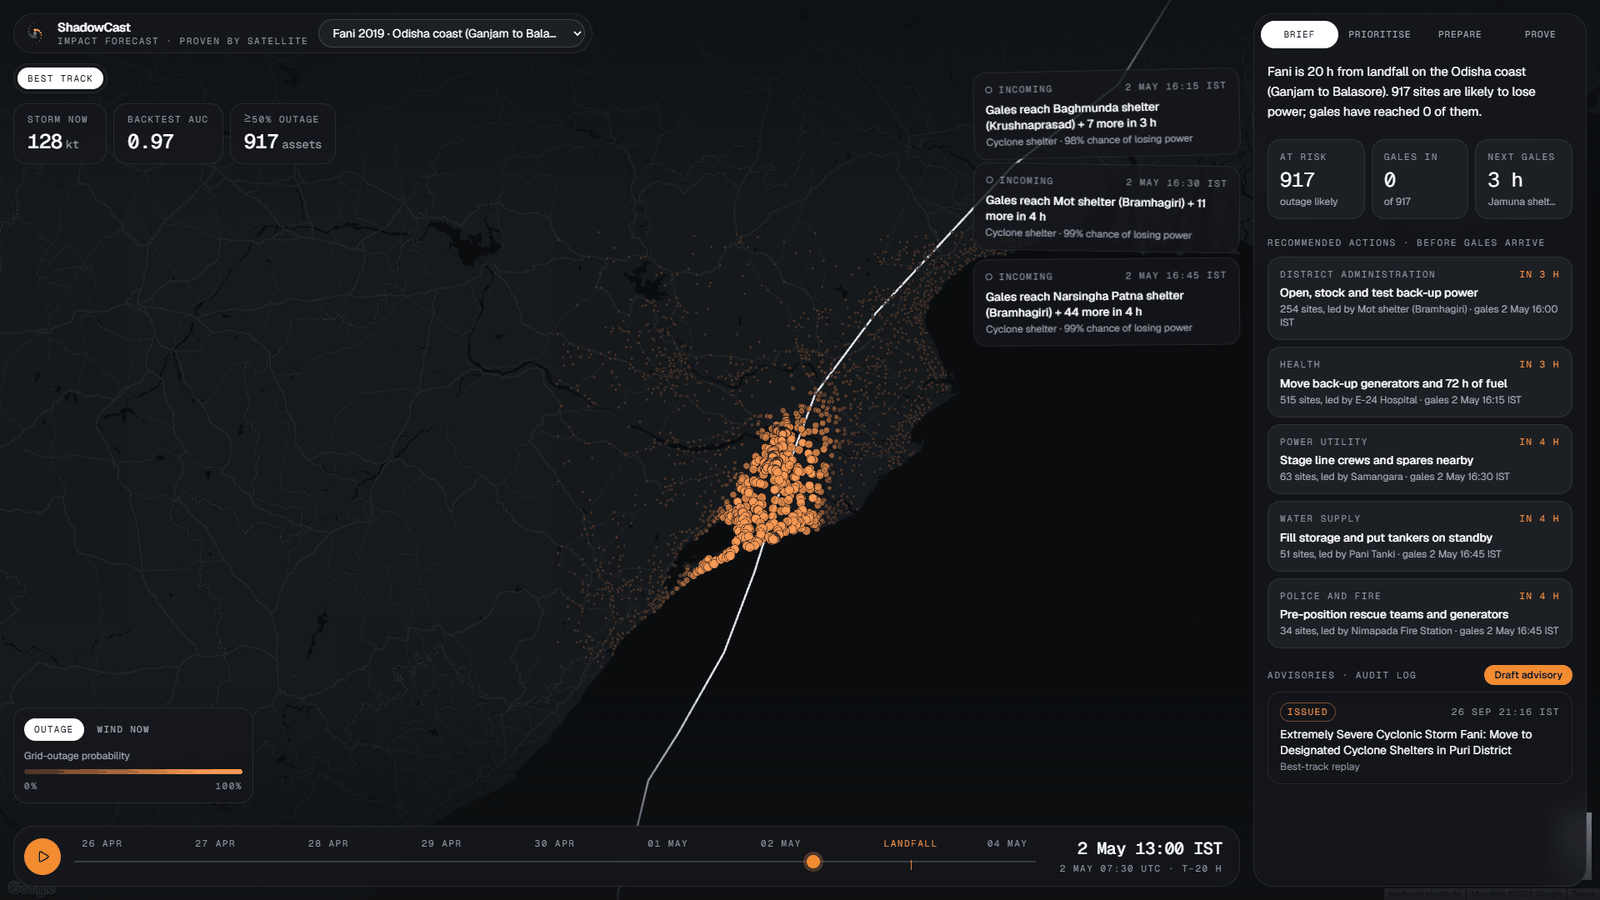
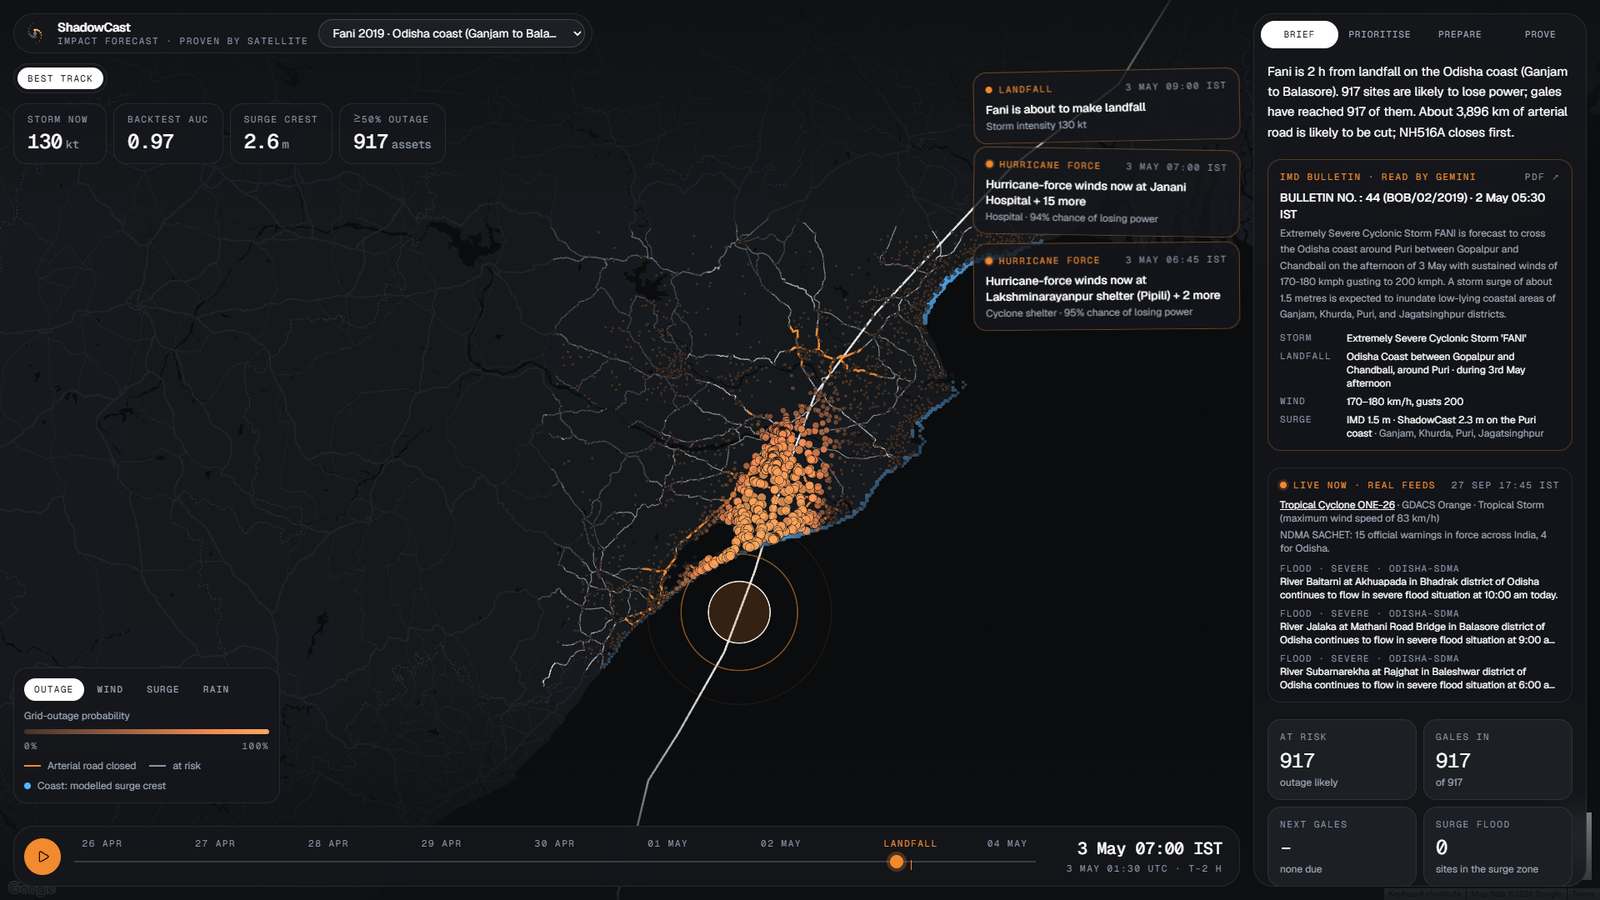
README: new hero screenshot with roads closing, surge band, IMD bulletin and live warnings

diff --git a/README.md b/README.md
@@ -29,9 +29,9 @@
 
 <br>
 
-<a href="https://shadowcast-two.vercel.app"><img width="100%" src="docs/images/fani-brief.png" alt="The ShadowCast console on Cyclone Fani, 20 hours before landfall: 917 sites likely to lose power, recommended actions per agency, and incoming gale alerts"></a>
+<a href="https://shadowcast-two.vercel.app"><img width="100%" src="docs/images/fani-brief.png" alt="The ShadowCast console on Cyclone Fani, 2 hours before landfall: arterial roads turning amber as they close, the surge band on the coast, hurricane-force alerts at named sites, and the Brief with IMD's bulletin read by Gemini and live NDMA warnings"></a>
 
-<sub>Cyclone Fani (2019), 20 h before landfall. The Brief tab: 917 sites likely to lose power, what each agency should do before gales reach its first site, and the officer audit trail.</sub>
+<sub>Cyclone Fani (2019), 2 h before landfall. Amber roads have become unsafe; the blue band is the modelled surge crest. The Brief shows IMD's own bulletin as Gemini read it from the PDF, today's live NDMA warnings for Odisha, and what each agency must do before its deadline.</sub>
 
 </div>
 
